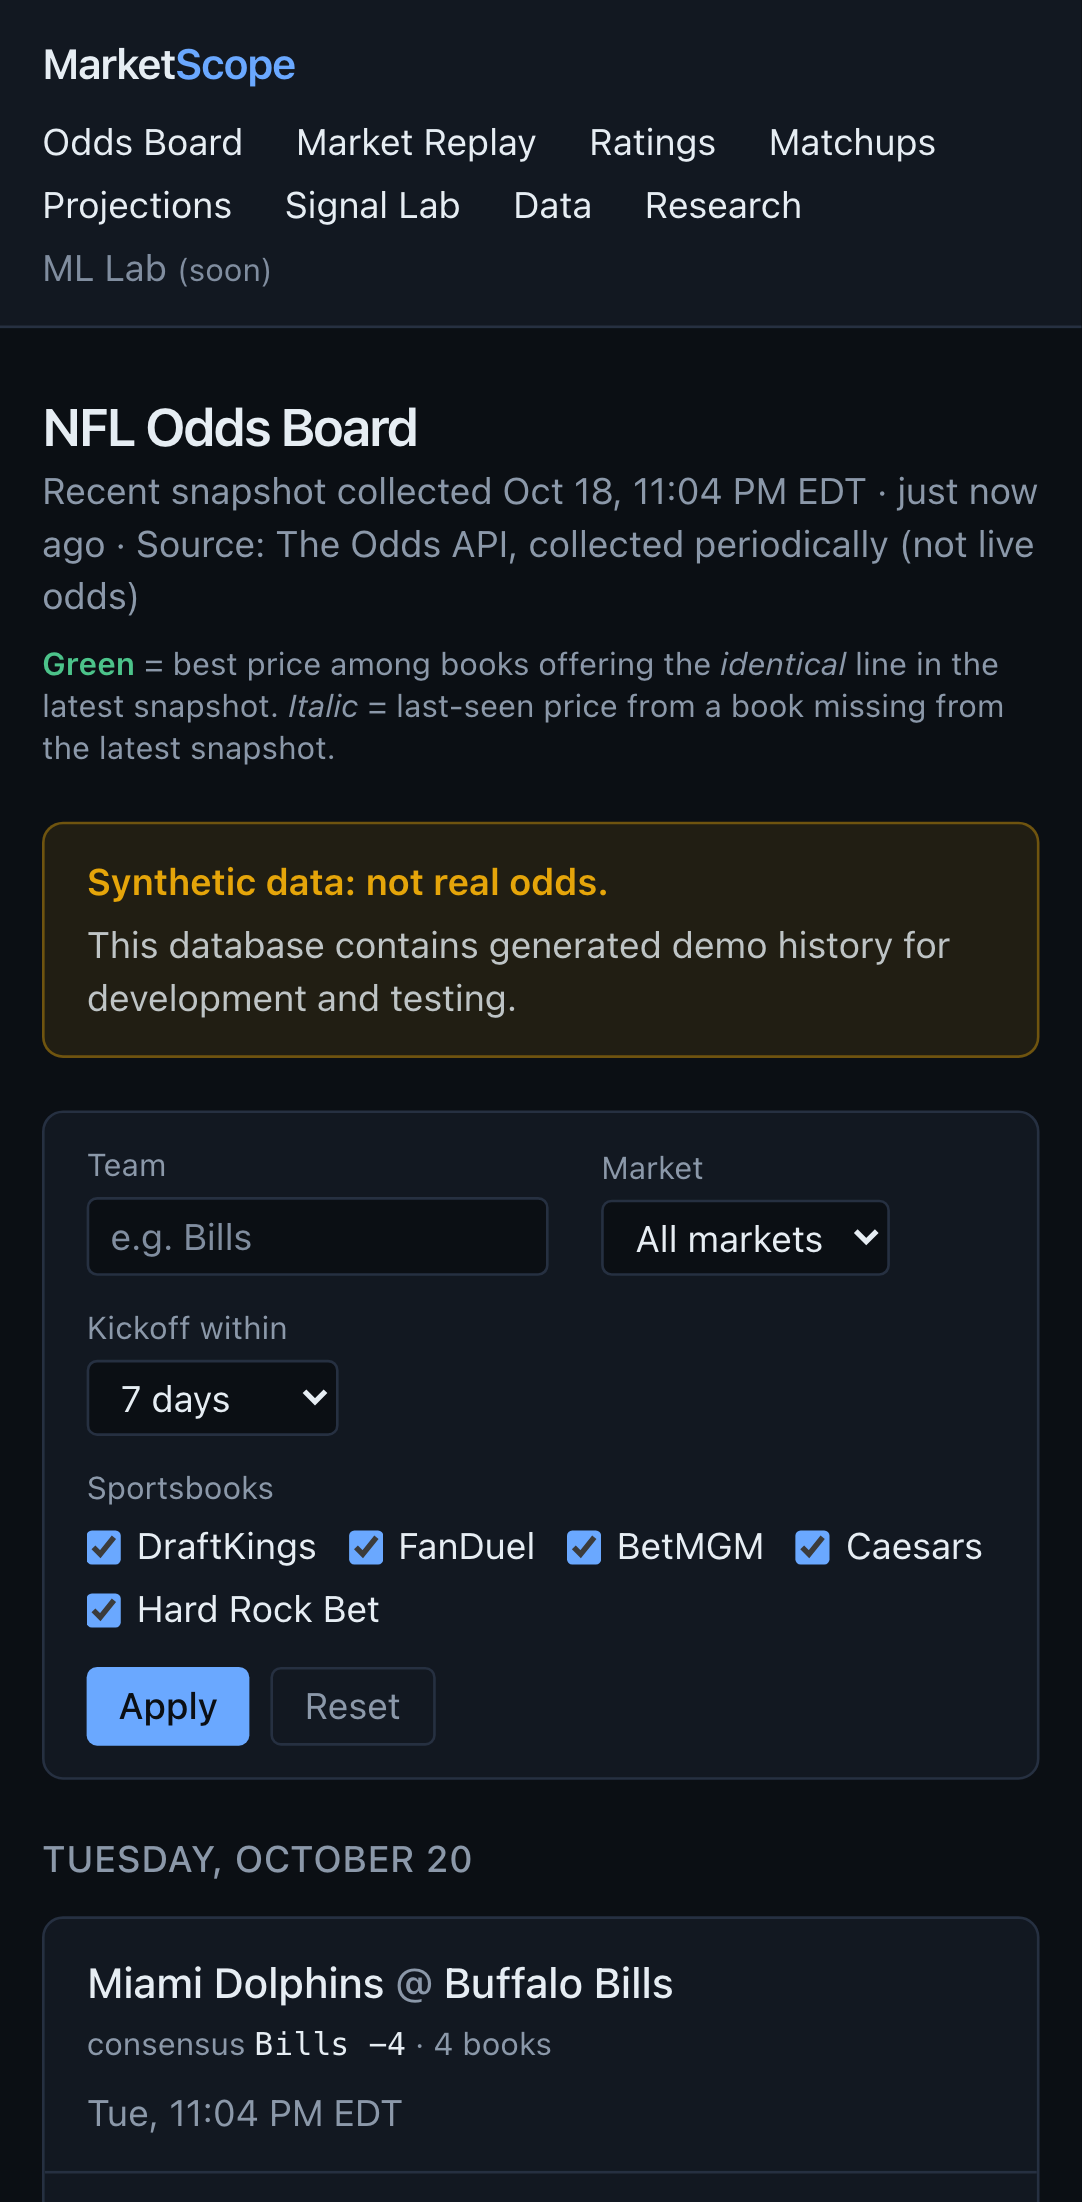
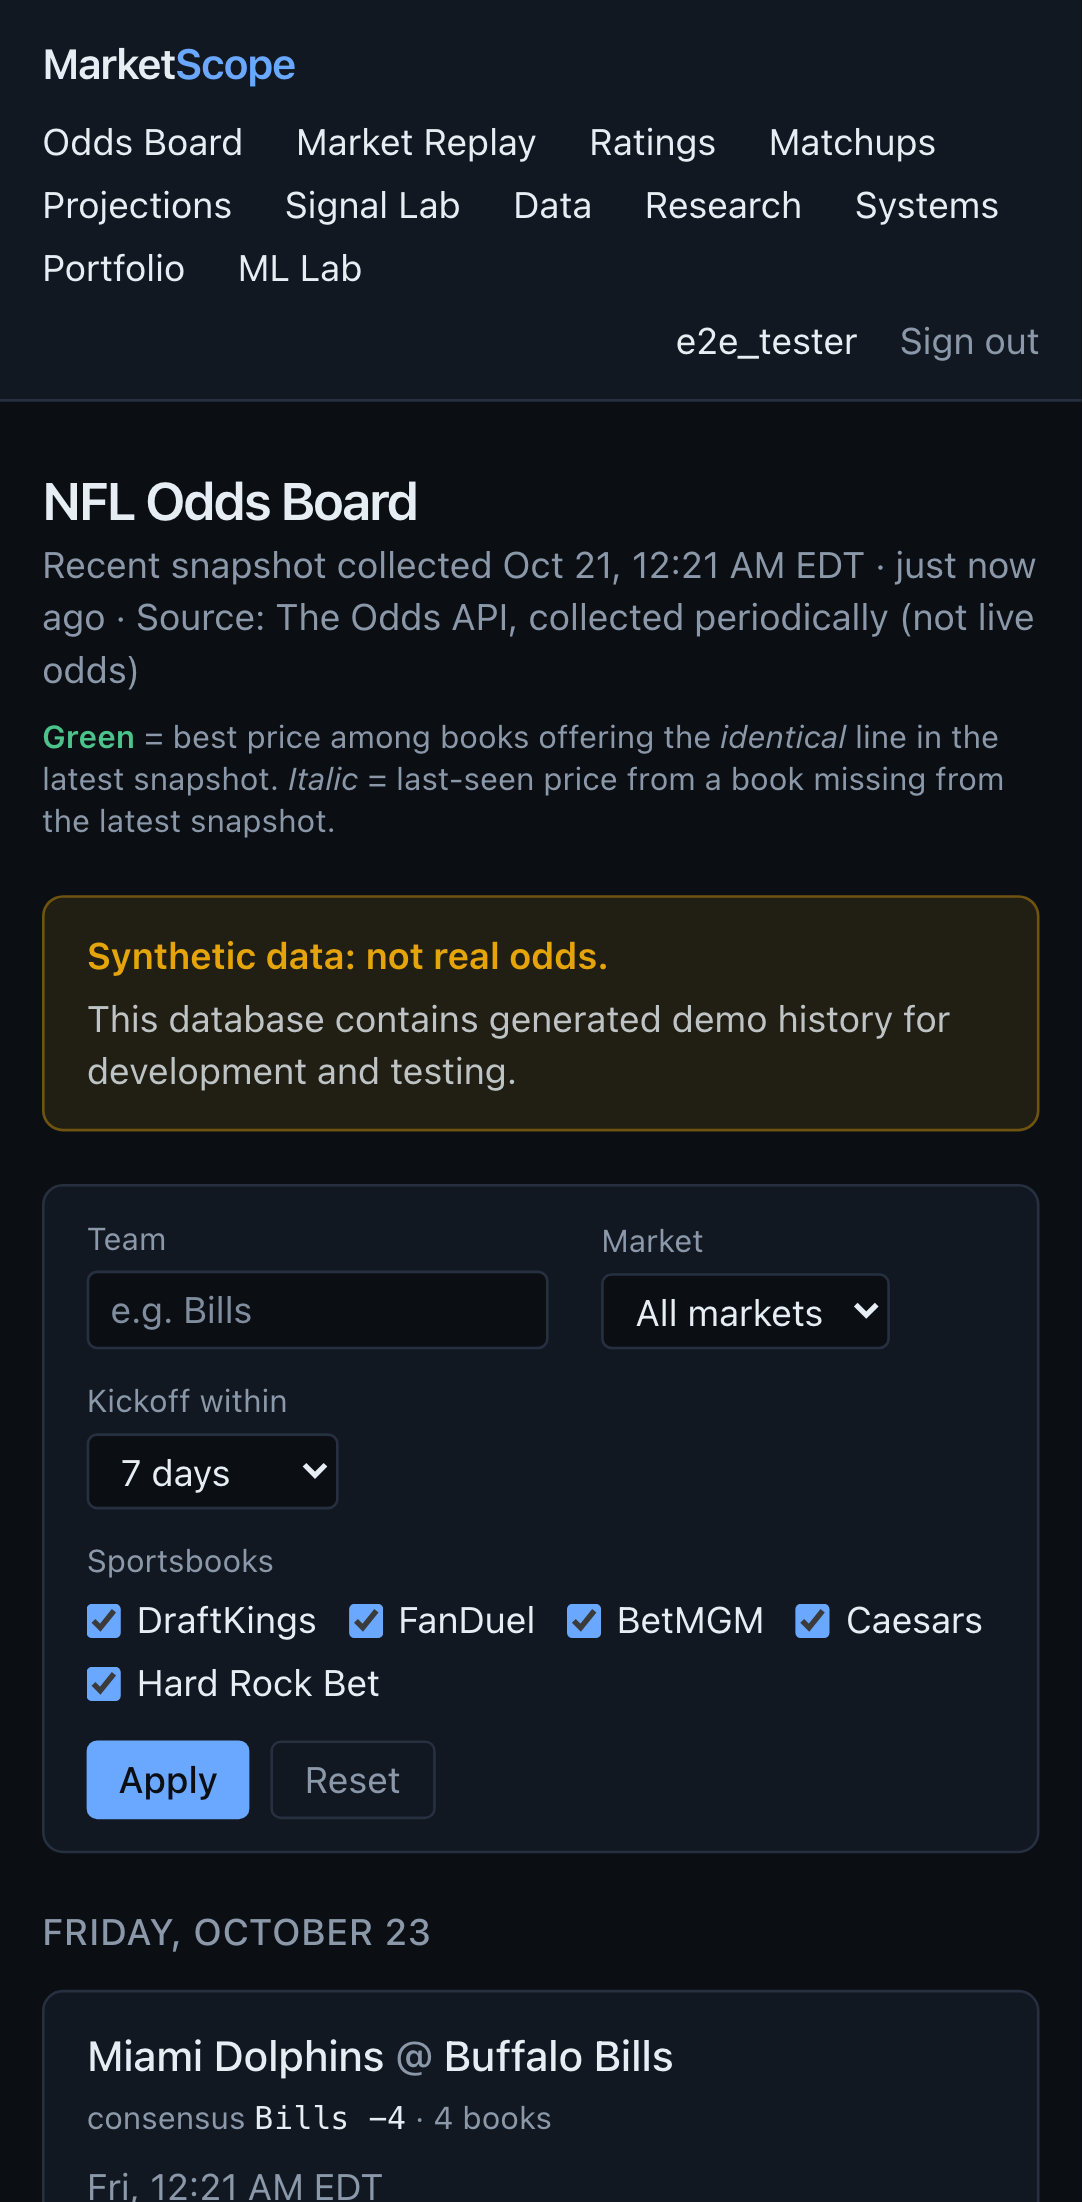
Phase 12 write-up: case study, README, refreshed screenshots
Case study gains a Sharp-Market Lab section (pipeline, price-aware yardstick,
discovery/confirmation, results table, the withdrawn claim); README covers
the lab, /systems and /portfolio; all docs screenshots regenerated.

diff --git a/docs/CASE_STUDY.md b/docs/CASE_STUDY.md
@@ -9,12 +9,14 @@ Sportsbook odds change constantly. Public sites show only the current price, and
 1. **Record the market faithfully.** Store every observation from five books, and replay any game's line history exactly.
 2. **Model the football independently.** Build KenPom-style team ratings from play-by-play data, so there is a view of each game that doesn't come from the market.
 3. **Test, with discipline, whether the two disagree in ways that matter.** Pre-register the questions, publish the nulls, and never dress up a model estimate as a bet.
+4. **Study the market itself** (Phase 12, the Sharp-Market Lab). Which books move first, whether lines left behind are worth taking at their price, and whether published "sharp" systems hold up, scored by closing-line value rather than wins and losses.
 
 ## Architecture in one paragraph
 
 - **Writers:** a TypeScript collector (GitHub Actions, 4 times a day) writes append-only odds observations to PostgreSQL. A Python pipeline (daily) ingests nflverse play-by-play, injuries, snaps and Open-Meteo forecasts, then rebuilds the ratings, the forward-test estimates and 10,000-season playoff simulations.
 - **Readers:** a Next.js 16 site on Vercel reads the same database through one query layer. A read-only Python research package runs the studies.
-- **Database:** one schema (Drizzle migrations, RLS on all 24 tables) serves both languages. Every job is idempotent per job key.
+- **Market microstructure (Phase 12):** a nightly job turns a provider's change logs into minute-level `line_moves` for the market makers (Pinnacle, Circa, Bookmaker.eu), four retail books and three exchanges (Novig, ProphetX, Kalshi). A paper-portfolio job places hypothetical positions from every pre-registered system before kickoff and grades them afterwards.
+- **Database:** one schema (Drizzle migrations, RLS on all 26 tables) serves both languages. Every job is idempotent per job key.
 
 Details and diagram: [ARCHITECTURE.md](ARCHITECTURE.md).
 
@@ -109,6 +111,35 @@ Each study's question, data window, decision rule and minimum sample size were c
 
 **What they say together:** the closing NFL market already prices what a strong public performance model measures, including injuries by kickoff. It is still moving on injury news during the week.
 
+## The Sharp-Market Lab: what moves the market, and is any of it worth taking?
+
+The goal shifted from "can a model beat the book?" (it can't, and R4/R6 show why) to studying the market itself. Three pieces of engineering made that possible:
+
+- **Minute-level line history for free.**
+  - **The data:** a provider's change log, reduced to main-line changes per book. Bursts under a second are merged, suspensions of a minute or more are recorded, and 14 days before kickoff are kept.
+  - **Size:** about 1,450 rows per game for books and about 2,300 more for exchanges, instead of millions of raw entries.
+  - **Checked:** the result reproduces 99.99% of the stored snapshots.
+- **A price-aware yardstick.** The obvious measure ("you got half a point better than the close") ignores what the book charged for that half-point. A margin distribution from 2016–25, with 3 and 7 carrying the most value, is calibrated to Pinnacle's no-vig close. That puts an expected value on any number at any price, and it was the measure that changed the conclusions.
+- **Discovery and confirmation.**
+  - Every study's rules were committed before its code, and its code before its first run.
+  - Results on weeks 1–6 are "discovery". The same code re-runs once on weeks 7–14.
+  - Anything noticed after the fact is pre-registered for the held-out weeks rather than claimed.
+
+| Study                                                              | Discovery result (weeks 1–6)                                                          |
+| ------------------------------------------------------------------ | ------------------------------------------------------------------------------------- |
+| **S1: who moves first?**                                           | **Pinnacle, in 74% of matched changes with retail books (68–80%)**                    |
+| S2: retail numbers left behind after Pinnacle moves                | +0.44 points, but **−2.0% per unit once priced**: the books charge for the old number |
+| S3: does steam continue to the close?                              | Barely: +0.17 points (+0.01 to +0.34)                                                 |
+| M1/M2: machine learning on the market's state                      | Pinnacle's next move unpredictable; model-picked retail numbers break-even            |
+| I1: is injury news priced when the official report is filed?       | No: about two-thirds is priced four days earlier                                      |
+| O1/T1: openers, stale totals                                       | No value; stale totals −1.8%                                                          |
+| X1: stale exchange prices, after fees                              | −1.2%; only the no-fee exchange was near break-even (registered for confirmation)     |
+| Systems: Wong teasers and ten public situational systems (2016–25) | None beat the price it would need; a walk-forward ML system did no better             |
+
+**What they say together:** information flows from the market makers to everyone else, and everyone else charges for the lag, retail books through juice and exchange traders through price and fees. That is the honest answer to "where is the edge?" in a public, liquid market. The forward paper portfolio keeps tracking every system so the record isn't chosen by these results.
+
+**A correction worth noting.** Building the portfolio exposed a join bug: neutral-site games were duplicated in one backtest. After the fix, an earlier claim ("the ML system is significantly worse than chance") no longer held, so it was withdrawn in writing (ADR-055). The same pattern was then searched for across the codebase.
+
 ## Data quality as a first-class concern
 
 A spot check by the project owner found a play-caller error. Instead of patching that one case, it led to a systematic audit ([ADR-045](DECISIONS.md)):
@@ -120,14 +151,15 @@ A spot check by the project owner found a play-caller error. Instead of patching
 
 ## What I'd do next
 
-- **More data:** collect more live weeks, then re-run the market ML with rolling-origin evaluation and the live injury snapshots as a direct feature.
-- **The live R2 study:** run it when its gate is met; it has exact first-seen times for injury statuses.
-- **ratings-v2:** key the between-season reversion on QB continuity, as R7 suggests, with its own validation and a new version string. Old predictions stay untouched.
-- **A screen-reader pass,** and text summaries for the charts.
+- **Confirmation (December 2026):** re-run every Sharp-Market study once on weeks 7–14 with unchanged code, and publish every result.
+- **Near-real-time data:** the provider's history endpoint is effectively live for upcoming games. With permission, a 30-minute poller would let the paper portfolio track the market-signal strategies before kickoff.
+- **Practice-report timing:** the live injury snapshots (since October 18) could show when practice participation moves the line, which is where the injury study found the market reacts.
+- **A screen-reader pass** on the newer pages.
 
 ## Skills demonstrated
 
 - **Backend data pipelines:** idempotent jobs, transactional ingestion, schema design with database-enforced invariants, query performance work.
 - **Full-stack TypeScript:** Next.js server components, typed query layer, view-model testing, e2e and accessibility testing.
 - **Python data engineering and statistical modelling:** state-space models, maximum-likelihood fitting, simulation, walk-forward evaluation, bootstrap inference.
-- **Research discipline:** pre-registration, leakage audits, published nulls, and honest uncertainty in every user-facing number.
+- **Research discipline:** pre-registration, discovery and confirmation splits, leakage audits, published nulls, withdrawn claims, and honest uncertainty in every user-facing number.
+- **Quantitative market analysis:** event studies on minute-level order flow across books and exchanges, price-aware closing-line value, fee modelling, and immutable paper trading.

diff --git a/README.md b/README.md
@@ -2,7 +2,7 @@
 
 **NFL sportsbook market intelligence, and "KenPom for the NFL".** Compare the market. Replay its history. Understand the matchup. Investigate the signals. Test the evidence.
 
-MarketScope collects NFL odds from five sportsbooks four times a day and stores every observation, so line history can be replayed exactly. Next to the market it builds its own football model:
+MarketScope collects NFL odds from five sportsbooks four times a day and stores every observation, so line history can be replayed exactly. It also keeps minute-level line history for the market makers (Pinnacle, Circa, Bookmaker.eu), retail books and exchanges, to study how the market moves. Next to the market it builds its own football model:
 
 - opponent-adjusted offense, defense and special-teams ratings with uncertainty
 - a labelled model line and win probability for every game
@@ -12,7 +12,7 @@ MarketScope collects NFL odds from five sportsbooks four times a day and stores 
 
 It is an analytics and education project, not a picks service.
 
-> **Status:** Phases 0–10 are complete. Odds and football data update automatically on a schedule, and the site is deployed on Vercel behind invite-only accounts. Start with the [case study](docs/CASE_STUDY.md), then [`docs/PROJECT_STATUS.md`](docs/PROJECT_STATUS.md) and [`docs/ROADMAP.md`](docs/ROADMAP.md).
+> **Status:** Phases 0–11 are complete, and Phase 12 (the Sharp-Market Lab) has finished its discovery studies; confirmation runs in December 2026. Odds and football data update automatically on a schedule, and the site is deployed on Vercel behind invite-only accounts. Start with the [case study](docs/CASE_STUDY.md), then [`docs/PROJECT_STATUS.md`](docs/PROJECT_STATUS.md) and [`docs/ROADMAP.md`](docs/ROADMAP.md).
 
 ![MarketScope Ratings: the KenPom-style table (synthetic demo data)](docs/screenshots/ratings-desktop.png)
 
@@ -28,13 +28,22 @@ _All screenshots show the synthetic demo database used by the end-to-end tests (
   - **2025 test, run once:** margin error 10.06 points per game, against 9.67 for the closing line, 10.19 for 538-style Elo and 11.02 for home field alone.
   - **2026:** a live forward test with estimates stored before kickoff.
 - **Season projections.** 10,000 simulated seasons with NFL tiebreakers, giving playoff, division, #1 seed and Super Bowl odds. The tiebreakers reproduce every 2016–24 playoff field.
-- **Research and ML Lab.** Nine pre-registered studies plus the market-movement ML experiments (`/research`, `/ml-lab`). The questions and decision rules were committed before the code. Most results are nulls, all are published, and one claim met its bar: the consensus moves about 0.4 points per starter newly ruled Out during the week.
+- **Research and ML Lab.** Nineteen pre-registered studies (ten on the market, nine on football) plus the market-movement ML experiments (`/research`, `/ml-lab`). The questions and decision rules were committed before the code. Most results are nulls and all are published. One football claim met its bar (the consensus moves about 0.4 points per starter newly ruled Out during the week), and on the market side Pinnacle moving first is a discovery claim awaiting December's confirmation run.
 
-| Ratings and team pages                            | Matchups (FanMatch-style)                          | Research                                                 |
-| ------------------------------------------------- | -------------------------------------------------- | -------------------------------------------------------- |
-| ![Team page](docs/screenshots/team-desktop.png)   | ![Matchups](docs/screenshots/matchups-desktop.png) | ![Research](docs/screenshots/research-desktop.png)       |
-| **Odds board**                                    | **Game page**                                      | **Season projections**                                   |
-| ![Odds board](docs/screenshots/board-desktop.png) | ![Game page](docs/screenshots/game-desktop.png)    | ![Projections](docs/screenshots/projections-desktop.png) |
+- **Sharp-Market Lab.**
+  - **Minute-level line moves** on every game page, with which book posted each number first.
+  - **Market studies:** who moves first, stale numbers, steam, ML on market state, injury timing, openers, totals and exchanges. All are scored by price-aware closing-line value against Pinnacle's no-vig close, with discovery and confirmation splits.
+  - **Systems** (`/systems`): Wong teasers and ten more public systems, backtested 2016–25.
+  - **Paper portfolio** (`/portfolio`): every system tracked live with immutable pre-kickoff positions.
+  - **Headline:** Pinnacle moves first, but the books and exchange traders charge for the lag. No pattern was worth taking at its price in discovery.
+
+| Ratings and team pages                                 | Matchups (FanMatch-style)                          | Research                                                 |
+| ------------------------------------------------------ | -------------------------------------------------- | -------------------------------------------------------- |
+| ![Team page](docs/screenshots/team-desktop.png)        | ![Matchups](docs/screenshots/matchups-desktop.png) | ![Research](docs/screenshots/research-desktop.png)       |
+| **Odds board**                                         | **Game page**                                      | **Season projections**                                   |
+| ![Odds board](docs/screenshots/board-desktop.png)      | ![Game page](docs/screenshots/game-desktop.png)    | ![Projections](docs/screenshots/projections-desktop.png) |
+| **Minute-level line moves**                            | **Systems**                                        | **Paper portfolio**                                      |
+| ![Line moves](docs/screenshots/line-moves-desktop.png) | ![Systems](docs/screenshots/systems-desktop.png)   | ![Portfolio](docs/screenshots/portfolio-desktop.png)     |
 
 ## Stack
 

diff --git a/docs/PROJECT_STATUS.md b/docs/PROJECT_STATUS.md
@@ -4,7 +4,7 @@ _Rewrite this file at the end of every session. Last updated: 2026-10-20 (sessio
 
 ## Current milestone
 
-**Phases 0–11 and the post-release projects are done. Phase 12, the Sharp-Market Lab (ADR-051): MS-041 (data sources) and MS-042 (minute-level line moves) are done; MS-043's discovery run is done (confirmation waits for weeks 7–14); MS-044 (Wong teasers), MS-045a (system catalogue) and MS-045b (paper portfolio, `/portfolio`) are done. MS-046's market-ML discovery (no exploitable value; ADR-057) MS-047's injury-window discovery (news priced before the official report; ADR-058) MS-050's openers and totals (no value; ADR-059) and MS-051's exchanges (no value after fees; ADR-060) are done. The discovery phase is complete; confirmation runs after 2026-12-16. Next: the Phase 12 write-up.**
+**Phases 0–11 and the post-release projects are done. Phase 12, the Sharp-Market Lab (ADR-051): MS-041 (data sources) and MS-042 (minute-level line moves) are done; MS-043's discovery run is done (confirmation waits for weeks 7–14); MS-044 (Wong teasers), MS-045a (system catalogue) and MS-045b (paper portfolio, `/portfolio`) are done. MS-046's market-ML discovery (no exploitable value; ADR-057) MS-047's injury-window discovery (news priced before the official report; ADR-058) MS-050's openers and totals (no value; ADR-059) and MS-051's exchanges (no value after fees; ADR-060) are done. The discovery phase and its write-up (case study, README, screenshots) are complete. Next: the confirmation runs after 2026-12-16.**
 
 The goal is to study the market for moves that indicate sharp betting and test whether any signals or systems are profitable. CLV is the yardstick; the ratings are context.
 
@@ -287,14 +287,7 @@ Nothing blocking.
 
 ## Next task
 
-**Phase 12 write-up.** The discovery phase is complete.
-
-1. Update `docs/CASE_STUDY.md` and the README with the Sharp-Market Lab findings:
-   - the data pipeline: minute-level `line_moves` for sharp books, retail books and exchanges;
-   - the research method: pre-registration, discovery and confirmation, price-aware CLV;
-   - the main results: Pinnacle leads; retail books and exchanges price the lag into their juice or fees; no exploitable pattern in discovery; injury news is priced before the official report;
-   - the paper portfolio.
-2. Refresh the docs screenshots (`/research`, `/systems`, `/portfolio`, line-move panel).
+**Confirmation runs, after 2026-12-16** (week 14 final and imported by the nightly job). Until then, nothing in the research needs code: the paper portfolio and the imports run on their own.
 
 **Confirmation runbook (after 2026-12-16, once week 14 is imported).** Each with `--phase confirmation`:
 

diff --git a/docs/ROADMAP.md b/docs/ROADMAP.md
@@ -320,7 +320,7 @@ The goal is to study the market for moves that indicate sharp betting, learn fro
 - [ ] **MS-051** Exchanges, price-aware with fees (pre-registered, Addenda K and L).
   - [x] Exchange import (Novig, ProphetX, Kalshi spreads and totals; 217k rows, about 46 MB) and discovery, weeks 1–6 (ADR-060): K1 stale exchange prices −1.2% after fees (below 0); K2 −3.0%. Novig +0.4% (exploratory), registered as K1n.
   - [ ] Confirmation on weeks 7–14 (after 2026-12-16).
-- [ ] **Phase 12 write-up:** `docs/CASE_STUDY.md` and the README updated with the market findings (portfolio).
+- [x] **Phase 12 write-up:** `docs/CASE_STUDY.md` and the README updated with the market findings; screenshots refreshed.
 
 ---
 
